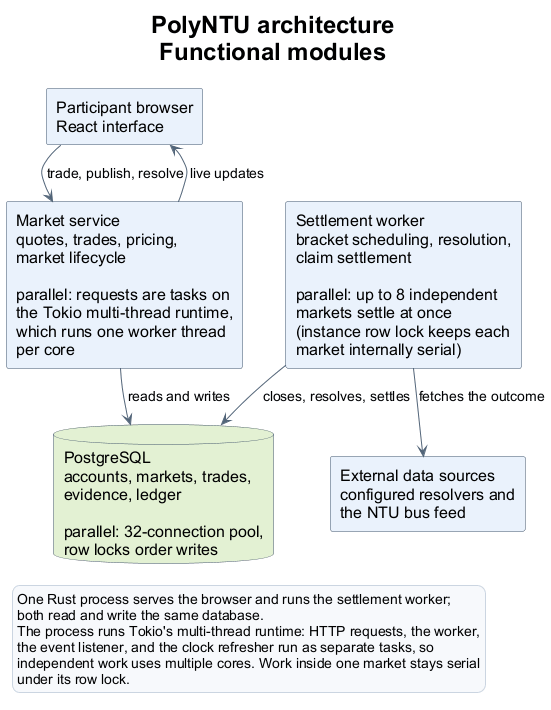
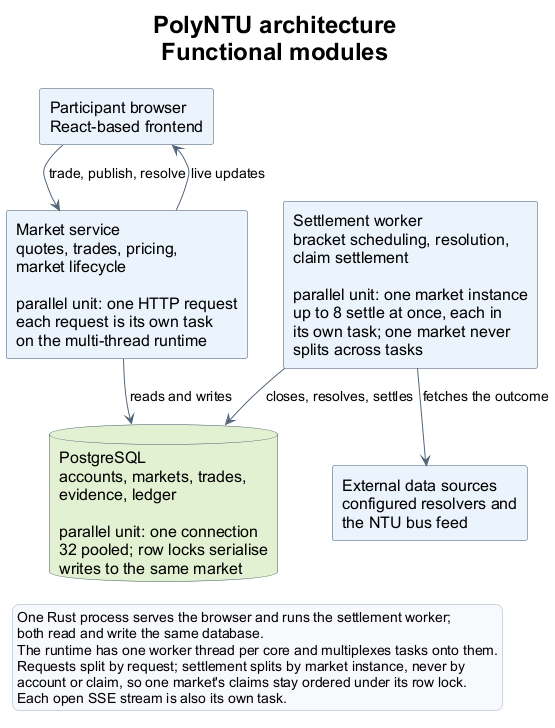
State the unit of parallel distribution in the module overview
Each box now names what gets distributed: one HTTP request per task in the
market service, one market instance per settlement task (never split by
account or claim), and one pooled connection per database unit of work.
Also say "React-based frontend" instead of "React browser", and drop the
bus-provider fallback paragraph from the maintained architecture doc.

diff --git a/docs/architecture.md b/docs/architecture.md
@@ -93,9 +93,7 @@ PostgreSQL is the durable authority for time-adjusted cutoffs, accounts, ledger 
 
 ### External evidence adapters
 
-The repository includes a [Python NTU bus provider](../provider/ntubus/README.md) and the built-in `POST /api/v2/resolvers/ntu-bus` adapter. For eligible bus instances marked `simulated`, the adapter first asks the configured provider (default `http://127.0.0.1:8090/resolve`) after the observation window ends. An explicitly empty `POLYNTU_NTUBUS_PROVIDER` disables that path. If the provider does not return a valid outcome after bounded attempts, the adapter uses deterministic simulated evidence. Its response records `ntubus-live` or `simulated-fallback` as the source. This provider-specific fallback is distinct from the generic resolver retry/deadline policy.
-
-Other integrations implement the fixed resolver contract and return a published outcome ID ([ADR 0007](decisions/0007-resolution-authority.md)). The scoped Lab 3 review establishes that this integration code exists; it does not establish live feed availability, accuracy, or production readiness. Generic resolver failures continue to retry until the published deadline and then void, rather than silently using simulated evidence.
+Other integrations implement the fixed resolver contract and return a published outcome ID ([ADR 0007](decisions/0007-resolution-authority.md)). The repository also includes a [Python NTU bus provider](../provider/ntubus/README.md) behind the built-in `POST /api/v2/resolvers/ntu-bus` adapter. Generic resolver failures retry until the published deadline and then void.
 
 ## Authoritative time
 

diff --git a/lab3/architecture.md b/lab3/architecture.md
@@ -8,7 +8,7 @@ The maintained detailed explanation is [docs/architecture.md](../docs/architectu
 
 ## Architectural style
 
-PolyNTU uses a **layered client-server architecture with a monolithic Rust backend**. A React browser communicates with an Axum HTTP API and receives public Server-Sent Events (SSE). PostgreSQL stores durable state. The Rust executable serves the built frontend and runs the lifecycle worker and event tasks in the same process. Configured external resolvers and the optional Python NTU bus provider are separate integration endpoints.
+PolyNTU uses a **layered client-server architecture with a monolithic Rust backend**. A React-based frontend communicates with an Axum HTTP API and receives public Server-Sent Events (SSE). PostgreSQL stores durable state. The Rust executable serves the built frontend and runs the lifecycle worker and event tasks in the same process. Configured external resolvers and the optional Python NTU bus provider are separate integration endpoints.
 
 ## Responsibility allocation
 
